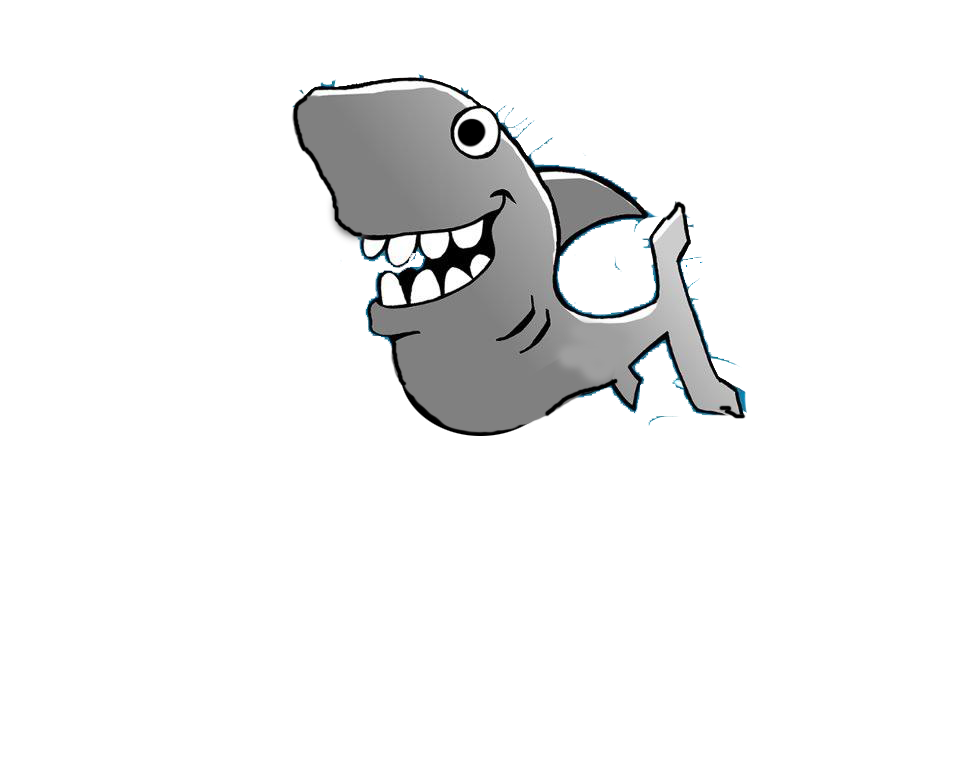
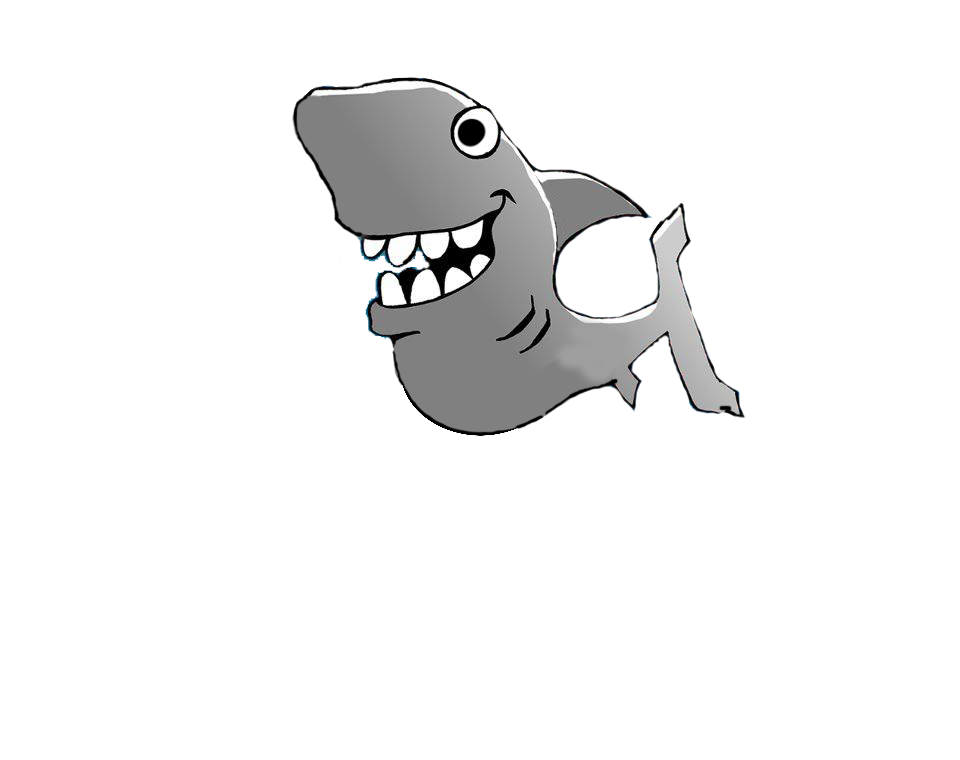
added some css animation to header

diff --git a/css/main.css b/css/main.css
@@ -171,6 +171,9 @@ nav a:hover {
      transition: 2s all ease;
    }
    #title {
+     -webkit-animation-delay: 1.3s; /* Chrome, Safari, Opera */
+     animation-delay: 1.3s;
+     -webkit-animation-duration: 1s;
      font-size: 80px;
      font-weight: 700;
      color: rgb(205, 29, 44);
@@ -179,6 +182,9 @@ nav a:hover {
    }
 
    #subTitle {
+     -webkit-animation-delay: 1s; /* Chrome, Safari, Opera */
+     animation-delay: 1s;
+     -webkit-animation-duration: 1s;
      color: white;
      font-weight: 200;
      padding-left: 10%;
@@ -426,6 +432,7 @@ section#download .platforms > div {
 
 #sharky {
   margin: -250px 0 0 475px;
+  -webkit-animation-duration: 3s;
 }
 
 #aboutBrian, #lifeLyrics {

diff --git a/js/main.js b/js/main.js
@@ -26,6 +26,24 @@ $(document).ready(function() {
     offset: '99%'
   });
 
+  $('#sharky').waypoint(function() {
+    $('#sharky').addClass('bounceInRight')
+  }, {
+    offset: 'none'
+  });
+
+  $('#title').waypoint(function() {
+    $('#title').addClass('tada')
+  }, {
+    offset: 'none'
+  });
+
+  $('#subTitle').waypoint(function() {
+    $('#subTitle').addClass('swing')
+  }, {
+    offset: 'none'
+  });
+
   $('#moreButton').on('click', function() {
     $('#moreButton').fadeOut();
     $('#hidden').toggleClass('hidden');
